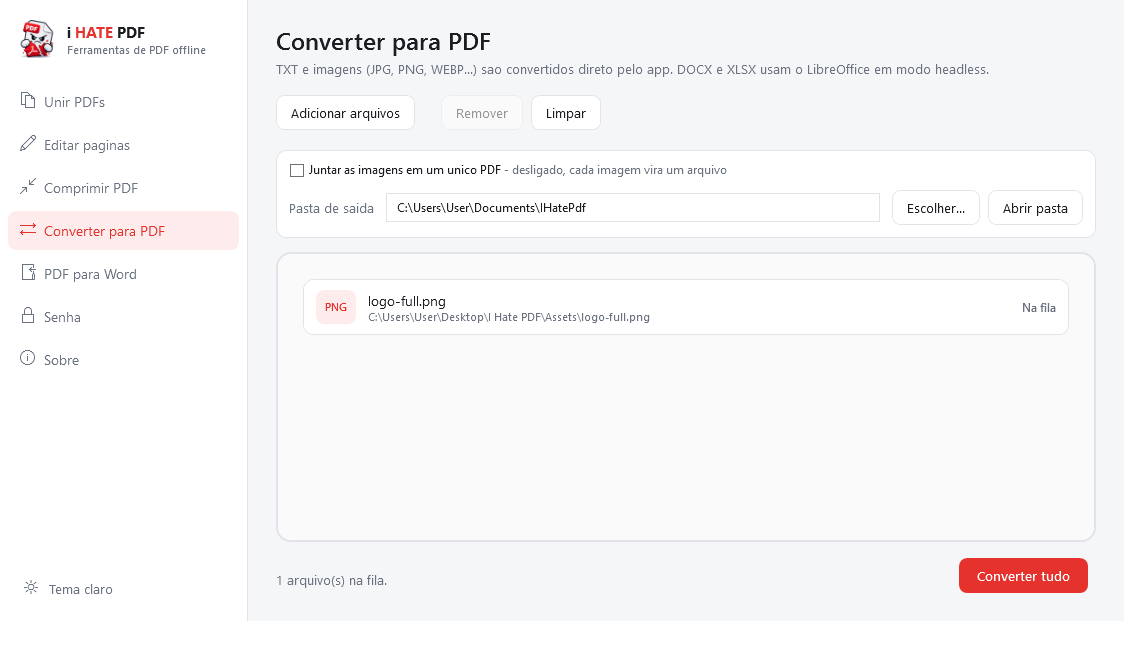
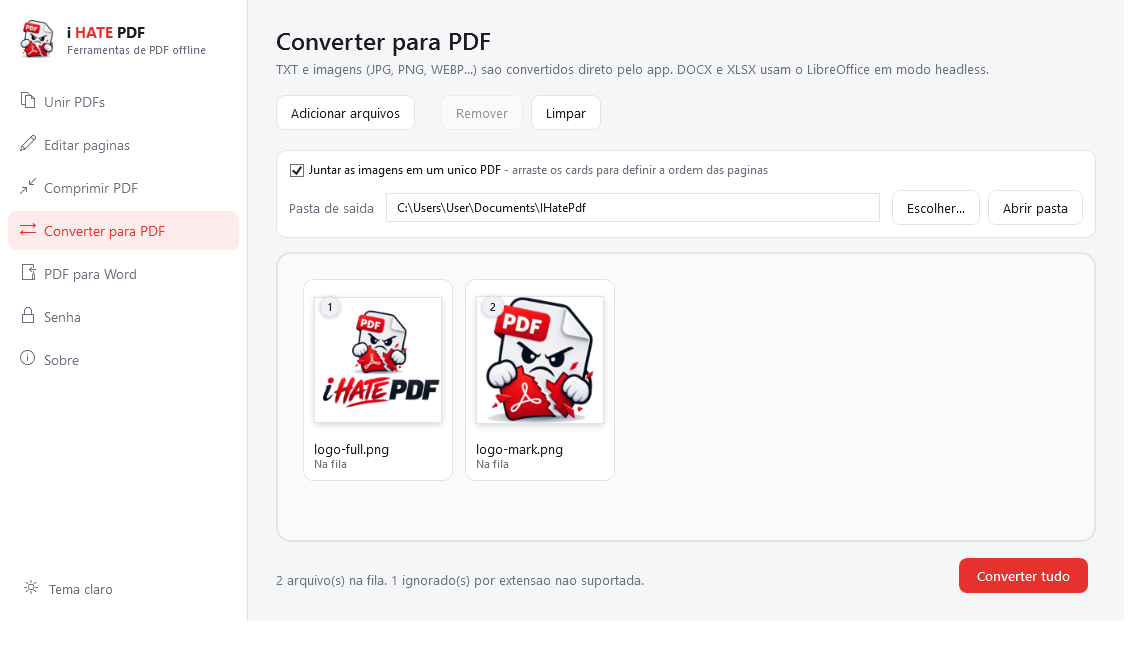
feat: grade arrastavel de imagens quando elas viram um PDF unico
No modo album a ordem da fila e a ordem das paginas, mas a lista nao
mostrava nem a imagem nem a posicao. Agora, com a opcao ligada, a fila
vira a mesma grade do editor: miniatura, numero da pagina no selo e
reordenacao por arrasto. Desligada, a lista compacta continua, que e o
que serve quando cada arquivo vira um PDF separado.

A miniatura e decodificada ja no tamanho do card (DecodePixelWidth) e com
CacheOption.OnLoad, senao uma foto de 12 MP viraria bitmap inteiro na
memoria e o arquivo ficaria travado enquanto estivesse na fila.

Cards menores que os de pagina (150x140): imagem nao precisa da altura de
uma folha A4, e assim a grade cabe sem cortar na altura padrao da janela.

diff --git a/Views/ConverterView.xaml b/Views/ConverterView.xaml
@@ -1,6 +1,7 @@
 <UserControl x:Class="IHatePdf.Views.ConverterView"
              xmlns="http://schemas.microsoft.com/winfx/2006/xaml/presentation"
              xmlns:x="http://schemas.microsoft.com/winfx/2006/xaml"
+             xmlns:dd="urn:gong-wpf-dragdrop"
              xmlns:models="clr-namespace:IHatePdf.Models"
              xmlns:vm="clr-namespace:IHatePdf.ViewModels"
              xmlns:d="http://schemas.microsoft.com/expression/blend/2008"
@@ -39,7 +40,7 @@
                           ToolTip="Uma pagina por imagem, na ordem da fila">
                     <TextBlock>
                         <Run Text="Juntar as imagens em um unico PDF" />
-                        <Run Text="- desligado, cada imagem vira um arquivo" Foreground="{DynamicResource TextSecondaryBrush}" />
+                        <Run Text="- arraste os cards para definir a ordem das paginas" Foreground="{DynamicResource TextSecondaryBrush}" />
                     </TextBlock>
                 </CheckBox>
 
@@ -89,7 +90,7 @@
                 <ListBox ItemsSource="{Binding Items}"
                          SelectedItem="{Binding SelectedItem}"
                          Style="{StaticResource PlainListBox}"
-                         Visibility="{Binding Items.Count, Converter={StaticResource EmptyToVisibility}, ConverterParameter=invert}">
+                         Visibility="{Binding ShowList, Converter={StaticResource BoolToVisibility}}">
                     <ListBox.ItemTemplate>
                         <DataTemplate>
                             <Grid ToolTip="{Binding ErrorMessage}">
@@ -136,6 +137,127 @@
                                 </DataTrigger>
                                 <DataTrigger Binding="{Binding Status}" Value="{x:Static models:ConversionStatus.Erro}">
                                     <Setter TargetName="StatusText" Property="Foreground" Value="{DynamicResource ErrorBrush}" />
+                                </DataTrigger>
+                            </DataTemplate.Triggers>
+                        </DataTemplate>
+                    </ListBox.ItemTemplate>
+                </ListBox>
+
+                <!-- Modo album: a ordem dos cards e a ordem das paginas, entao
+                     a fila vira uma grade arrastavel, igual a do editor. -->
+                <ListBox ItemsSource="{Binding Items}"
+                         SelectedItem="{Binding SelectedItem}"
+                         Background="Transparent"
+                         BorderThickness="0"
+                         ScrollViewer.HorizontalScrollBarVisibility="Disabled"
+                         Visibility="{Binding ShowGrid, Converter={StaticResource BoolToVisibility}}"
+                         dd:DragDrop.IsDragSource="True"
+                         dd:DragDrop.IsDropTarget="True"
+                         dd:DragDrop.SelectDroppedItems="True"
+                         dd:DragDrop.DragAdornerTemplate="{StaticResource DragCardAdorner}"
+                         dd:DragDrop.DropTargetAdornerBrush="{DynamicResource AccentBrush}"
+                         dd:DragDrop.DragMouseAnchorPoint="0.5,0.5"
+                         dd:DragDrop.MinimumHorizontalDragDistance="6"
+                         dd:DragDrop.MinimumVerticalDragDistance="6">
+                    <ListBox.ItemsPanel>
+                        <ItemsPanelTemplate>
+                            <WrapPanel Orientation="Horizontal" />
+                        </ItemsPanelTemplate>
+                    </ListBox.ItemsPanel>
+
+                    <ListBox.ItemContainerStyle>
+                        <Style TargetType="ListBoxItem">
+                            <Setter Property="Margin" Value="0,0,12,12" />
+                            <Setter Property="Padding" Value="0" />
+                            <Setter Property="Template">
+                                <Setter.Value>
+                                    <ControlTemplate TargetType="ListBoxItem">
+                                        <ContentPresenter />
+                                    </ControlTemplate>
+                                </Setter.Value>
+                            </Setter>
+                        </Style>
+                    </ListBox.ItemContainerStyle>
+
+                    <ListBox.ItemTemplate>
+                        <DataTemplate>
+                            <Border x:Name="Card"
+                                    Width="150"
+                                    Background="{DynamicResource CardBackgroundBrush}"
+                                    BorderBrush="{DynamicResource BorderBrushSoft}"
+                                    BorderThickness="1"
+                                    CornerRadius="10"
+                                    Padding="10"
+                                    Cursor="Hand"
+                                    ToolTip="{Binding SourcePath}">
+                                <StackPanel>
+                                    <Grid Height="140">
+                                        <Border Background="White"
+                                                BorderBrush="{DynamicResource BorderBrushSoft}"
+                                                BorderThickness="1"
+                                                SnapsToDevicePixels="True"
+                                                HorizontalAlignment="Center"
+                                                VerticalAlignment="Center"
+                                                MaxHeight="140">
+                                            <Border.Effect>
+                                                <DropShadowEffect BlurRadius="10" ShadowDepth="2" Direction="270" Opacity="0.16" Color="#000000" />
+                                            </Border.Effect>
+                                            <Image Source="{Binding Thumbnail}"
+                                                   Stretch="Uniform"
+                                                   RenderOptions.BitmapScalingMode="HighQuality" />
+                                        </Border>
+
+                                        <!-- Arquivo que nao e imagem entra na fila do mesmo jeito;
+                                             sem previa, mostra a extensao. -->
+                                        <Border Background="{DynamicResource AccentSoftBrush}"
+                                                CornerRadius="6"
+                                                Padding="10,6"
+                                                HorizontalAlignment="Center"
+                                                VerticalAlignment="Center"
+                                                Visibility="{Binding Thumbnail, Converter={StaticResource EmptyToVisibility}}">
+                                            <TextBlock Text="{Binding Extension}"
+                                                       FontSize="13"
+                                                       FontWeight="SemiBold"
+                                                       Foreground="{DynamicResource AccentBrush}" />
+                                        </Border>
+
+                                        <Border Style="{StaticResource CardBadge}"
+                                                HorizontalAlignment="Left"
+                                                ToolTip="Ordem desta pagina no PDF final">
+                                            <TextBlock Text="{Binding DisplayNumber, Mode=OneWay}"
+                                                       Style="{StaticResource CardBadgeText}"
+                                                       FontWeight="SemiBold"
+                                                       Foreground="{DynamicResource TextPrimaryBrush}" />
+                                        </Border>
+                                    </Grid>
+
+                                    <TextBlock Text="{Binding FileName}"
+                                               Margin="0,10,0,0"
+                                               FontSize="12.5"
+                                               TextTrimming="CharacterEllipsis"
+                                               Foreground="{DynamicResource TextPrimaryBrush}" />
+                                    <TextBlock x:Name="StatusLine"
+                                               Text="{Binding Status, Converter={StaticResource ConversionStatusToText}}"
+                                               Style="{StaticResource SubtitleText}"
+                                               FontSize="10.5" />
+                                </StackPanel>
+                            </Border>
+
+                            <DataTemplate.Triggers>
+                                <Trigger SourceName="Card" Property="IsMouseOver" Value="True">
+                                    <Setter TargetName="Card" Property="BorderBrush" Value="{DynamicResource AccentBrush}" />
+                                    <Setter TargetName="Card" Property="Background" Value="{DynamicResource CardHoverBrush}" />
+                                </Trigger>
+                                <DataTrigger Binding="{Binding IsSelected, RelativeSource={RelativeSource AncestorType=ListBoxItem}}" Value="True">
+                                    <Setter TargetName="Card" Property="BorderBrush" Value="{DynamicResource AccentBrush}" />
+                                    <Setter TargetName="Card" Property="BorderThickness" Value="2" />
+                                    <Setter TargetName="Card" Property="Background" Value="{DynamicResource AccentSoftBrush}" />
+                                </DataTrigger>
+                                <DataTrigger Binding="{Binding Status}" Value="{x:Static models:ConversionStatus.Concluido}">
+                                    <Setter TargetName="StatusLine" Property="Foreground" Value="{DynamicResource SuccessBrush}" />
+                                </DataTrigger>
+                                <DataTrigger Binding="{Binding Status}" Value="{x:Static models:ConversionStatus.Erro}">
+                                    <Setter TargetName="StatusLine" Property="Foreground" Value="{DynamicResource ErrorBrush}" />
                                 </DataTrigger>
                             </DataTemplate.Triggers>
                         </DataTemplate>

diff --git a/ViewModels/ConverterViewModel.cs b/ViewModels/ConverterViewModel.cs
@@ -1,4 +1,5 @@
 using System.Collections.ObjectModel;
+using System.Collections.Specialized;
 using CommunityToolkit.Mvvm.ComponentModel;
 using CommunityToolkit.Mvvm.Input;
 using IHatePdf.Models;
@@ -11,29 +12,28 @@ public sealed partial class ConverterViewModel : ViewModelBase
 {
     private readonly IConversionService _conversionService;
     private readonly IImageToPdfService _imageService;
+    private readonly IImageThumbnailService _thumbnailService;
     private readonly IDialogService _dialogService;
     private readonly ISettingsService _settings;
 
     public ConverterViewModel(
         IConversionService conversionService,
         IImageToPdfService imageService,
+        IImageThumbnailService thumbnailService,
         IDialogService dialogService,
         ISettingsService settings)
         : base("Converter para PDF", "")
     {
         _conversionService = conversionService;
         _imageService = imageService;
+        _thumbnailService = thumbnailService;
         _dialogService = dialogService;
         _settings = settings;
 
         OutputFolder = settings.Current.ConverterOutputFolder ?? AppSettings.DefaultOutputFolder;
         CombineImages = settings.Current.CombineImages;
 
-        Items.CollectionChanged += (_, _) =>
-        {
-            ConvertAllCommand.NotifyCanExecuteChanged();
-            OnPropertyChanged(nameof(HasImages));
-        };
+        Items.CollectionChanged += OnItemsChanged;
     }
 
     public ObservableCollection<ConversionItem> Items { get; } = new();
@@ -42,6 +42,19 @@ public sealed partial class ConverterViewModel : ViewModelBase
 
     /// <summary>Quando ligado, todas as imagens da fila viram um unico PDF.</summary>
     [ObservableProperty] private bool _combineImages;
+
+    private void OnItemsChanged(object? sender, NotifyCollectionChangedEventArgs e)
+    {
+        // A ordem da fila e a ordem das paginas no PDF unico: renumera a cada
+        // insercao, remocao ou arrasto.
+        for (var i = 0; i < Items.Count; i++)
+            Items[i].DisplayNumber = i + 1;
+
+        ConvertAllCommand.NotifyCanExecuteChanged();
+        OnPropertyChanged(nameof(HasImages));
+        OnPropertyChanged(nameof(ShowGrid));
+        OnPropertyChanged(nameof(ShowList));
+    }
 
     partial void OnOutputFolderChanged(string value)
     {
@@ -53,10 +66,18 @@ public sealed partial class ConverterViewModel : ViewModelBase
     {
         _settings.Current.CombineImages = value;
         _settings.Save();
+
+        OnPropertyChanged(nameof(ShowGrid));
+        OnPropertyChanged(nameof(ShowList));
     }
 
     /// <summary>A opcao de juntar so aparece quando ha imagem na fila.</summary>
     public bool HasImages => Items.Any(i => _imageService.IsImage(i.SourcePath));
+
+    /// <summary>No modo album a ordem importa, entao a fila vira grade arrastavel.</summary>
+    public bool ShowGrid => CombineImages && Items.Count > 0;
+
+    public bool ShowList => !CombineImages && Items.Count > 0;
 
     [ObservableProperty]
     [NotifyCanExecuteChangedFor(nameof(RemoveCommand))]
@@ -76,7 +97,7 @@ public sealed partial class ConverterViewModel : ViewModelBase
             await AcceptFilesAsync(paths);
     }
 
-    public override Task AcceptFilesAsync(IReadOnlyList<string> paths)
+    public override async Task AcceptFilesAsync(IReadOnlyList<string> paths)
     {
         var ignored = 0;
 
@@ -98,7 +119,23 @@ public sealed partial class ConverterViewModel : ViewModelBase
             ? $"{Items.Count} arquivo(s) na fila. {ignored} ignorado(s) por extensao nao suportada."
             : $"{Items.Count} arquivo(s) na fila.";
 
-        return Task.CompletedTask;
+        await LoadThumbnailsAsync();
+    }
+
+    /// <summary>Carrega as miniaturas das imagens ainda sem uma.</summary>
+    private async Task LoadThumbnailsAsync()
+    {
+        foreach (var item in Items.Where(i => i.Thumbnail is null && _imageService.IsImage(i.SourcePath)).ToList())
+        {
+            try
+            {
+                item.Thumbnail = await _thumbnailService.RenderAsync(item.SourcePath);
+            }
+            catch (Exception)
+            {
+                // Imagem ilegivel continua na fila; o card so fica sem previa.
+            }
+        }
     }
 
     [RelayCommand(CanExecute = nameof(HasSelection))]

diff --git a/Services/ImageThumbnailService.cs b/Services/ImageThumbnailService.cs
@@ -1,0 +1,38 @@
+using System.Windows.Media.Imaging;
+
+namespace IHatePdf.Services;
+
+/// <summary>Miniatura de arquivos de imagem (o PDF tem o seu proprio servico).</summary>
+public interface IImageThumbnailService
+{
+    /// <summary>
+    /// Devolve a miniatura ja congelada (Freeze), portanto segura para
+    /// atravessar threads e ser bindada direto na UI.
+    /// </summary>
+    Task<BitmapSource> RenderAsync(string imagePath, int width = 220, CancellationToken ct = default);
+}
+
+/// <inheritdoc cref="IImageThumbnailService"/>
+public sealed class ImageThumbnailService : IImageThumbnailService
+{
+    public Task<BitmapSource> RenderAsync(string imagePath, int width = 220, CancellationToken ct = default) =>
+        Task.Run(() =>
+        {
+            ct.ThrowIfCancellationRequested();
+
+            var bitmap = new BitmapImage();
+            bitmap.BeginInit();
+            // DecodePixelWidth decodifica ja no tamanho do card: uma foto de
+            // 12 MP nao precisa virar bitmap inteiro na memoria.
+            bitmap.DecodePixelWidth = width;
+            // OnLoad le tudo agora e solta o arquivo; sem isso a imagem ficaria
+            // travada e o usuario nao conseguiria move-la ou apaga-la.
+            bitmap.CacheOption = BitmapCacheOption.OnLoad;
+            bitmap.CreateOptions = BitmapCreateOptions.IgnoreColorProfile;
+            bitmap.UriSource = new Uri(imagePath);
+            bitmap.EndInit();
+            bitmap.Freeze();
+
+            return (BitmapSource)bitmap;
+        }, ct);
+}

diff --git a/Models/ConversionItem.cs b/Models/ConversionItem.cs
@@ -1,3 +1,4 @@
+using System.Windows.Media.Imaging;
 using CommunityToolkit.Mvvm.ComponentModel;
 
 namespace IHatePdf.Models;
@@ -16,4 +17,10 @@ public partial class ConversionItem : ObservableObject
     [ObservableProperty] private ConversionStatus _status = ConversionStatus.Pendente;
     [ObservableProperty] private string? _outputPath;
     [ObservableProperty] private string? _errorMessage;
+
+    /// <summary>Miniatura, quando o arquivo e uma imagem. Congelada (Freeze).</summary>
+    [ObservableProperty] private BitmapSource? _thumbnail;
+
+    /// <summary>Posicao 1..N na fila; e a ordem das paginas quando as imagens viram um PDF unico.</summary>
+    [ObservableProperty] private int _displayNumber;
 }

diff --git a/App.xaml.cs b/App.xaml.cs
@@ -79,6 +79,7 @@ public partial class App : Application
         // Estrategias de conversao: trocar LibreOfficeConverter por um conversor
         // Syncfusion aqui muda o backend de DOCX/XLSX sem tocar no resto do app.
         services.AddSingleton<IImageToPdfService, ImageToPdfService>();
+        services.AddSingleton<IImageThumbnailService, ImageThumbnailService>();
         services.AddSingleton<IFileConverter, TextToPdfConverter>();
         services.AddSingleton<IFileConverter, ImageToPdfConverter>();
         services.AddSingleton<IFileConverter, LibreOfficeConverter>();

diff --git a/README.md b/README.md
@@ -50,7 +50,7 @@ Abra um PDF e veja **cada página como miniatura**. Marque as que morrem, arrast
 <td width="33%" valign="top">
 
 ### 🔁 Converter
-`TXT` e **imagens** (JPG, PNG, WEBP, BMP, GIF, TIFF) viram PDF direto — e as imagens podem virar **um arquivo cada ou um PDF único**, na ordem da fila.<br/>
+`TXT` e **imagens** (JPG, PNG, WEBP, BMP, GIF, TIFF) viram PDF direto — e as imagens podem virar **um arquivo cada ou um PDF único**. No modo PDF único a fila vira uma **grade de miniaturas arrastáveis**, com o número da página em cada card — a ordem que você vê é a ordem do documento.<br/>
 `DOCX` e `XLSX` passam pelo **LibreOffice headless**.
 
 </td>
